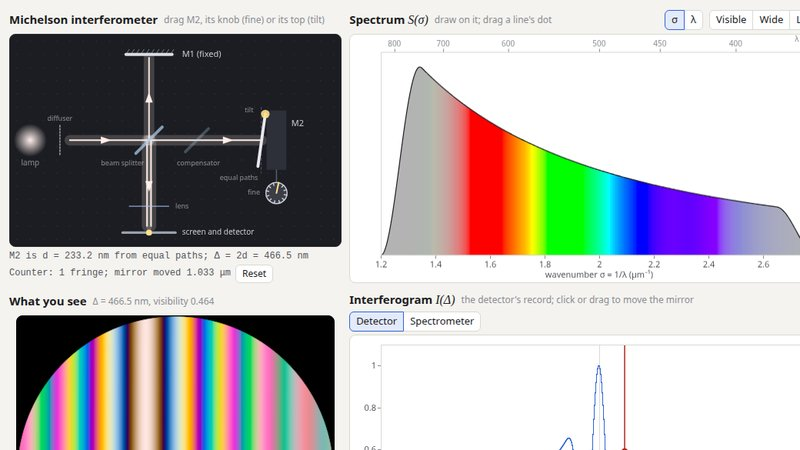
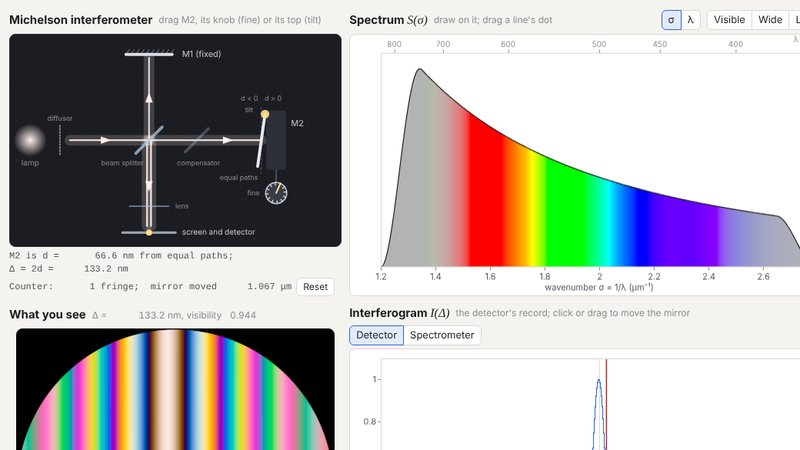
Interferometer: Betelgeuse on a 20-foot beam; visibility explained; thumbnail
The Betelgeuse set-up's baselines now run to 6.1 m, the length of Michelson
and Pease's beam that the help tells of, where the schematic said "beam,
10.2 m long" (the plot's range, 3.3 times the first null). The help's
introduction says what the visibility over the screen is, the contrast
(Imax − Imin)/(Imax + Imin) of the fringes around the present Δ, and what the
dashed line on the interferogram is; experiment 9 adds that a missing
compensating plate also makes the interferogram lopsided, which a two-sided
scan measures too. The thumbnail is remade from #setup=white.

Claude-Session: https://claude.ai/code/session_01Uf588EmEoW67UxQKckEGyR

diff --git a/interferometer/index.html b/interferometer/index.html
@@ -114,9 +114,12 @@
   $$I(\Delta)=\int S(\sigma)\,[1+\cos 2\pi\sigma\Delta]\,d\sigma .$$
   The cosine is even, so $I(-\Delta)=I(\Delta)$: the interferogram is the same on both sides of
   zero path.  Apart from the constant, it is the Fourier (cosine) transform of the spectrum: they
-  are a Fourier pair, and you can change either one here.  The screen shows what you would see
-  looking into the instrument, in true colour.  Scroll over the spectrum or the interferogram to
-  zoom; the buttons above them set their ranges.</p>
+  are a Fourier pair, and you can change either one here.  The dashed line on the interferogram is
+  the level with no interference, half the signal at zero path.  The screen shows what you would
+  see looking into the instrument, in true colour; over it, the visibility is the contrast
+  $(I_\text{max}-I_\text{min})/(I_\text{max}+I_\text{min})$ of the fringes around the present
+  $\Delta$: 1 for a laser, smaller where the wavelengths in the light have got out of step.  Scroll
+  over the spectrum or the interferogram to zoom; the buttons above them set their ranges.</p>
 
   <article class="exp" data-setup="count">
     <h3>1. Count the fringes: the laser's wavelength</h3>
@@ -240,7 +243,10 @@
     both sides, the shift only gives the transform a phase, $2\pi\sigma\varepsilon$ at each line,
     which the spectrometer measures and takes out (phase correction).  That is why spectrometers
     scan both sides of zero path, or at least a little of the second side, to measure the phase.
-    Set $\varepsilon$ to 0 and the two kinds of scan agree.</p>
+    (A real instrument can be lopsided in other ways too: without a compensating plate, the glass
+    of the beam splitter delays each colour differently, and the phase is no longer in proportion
+    to $\sigma$.  A two-sided scan measures that phase too.)  Set $\varepsilon$ to 0 and the two
+    kinds of scan agree.</p>
   </article>
 
   <article class="exp" data-setup="resolution">

diff --git a/interferometer/stellar-view.js b/interferometer/stellar-view.js
@@ -410,10 +410,11 @@ export function init(hooks) {
   showKind();
 }
 
-/** Set everything at once (for set-ups and the hash). */
-export function configure(s) {
+/** Set everything at once (for set-ups and the hash); span: the longest baseline, if not the star's own choice. */
+export function configure({ span, ...s }) {
   Object.assign(state, s);
   rebuild();
+  if (span > 0) { xmax = Math.max(span, state.B); dirty = true; }
   thetaSlider.value = state.theta; limbSlider.value = state.limb; rhoSlider.value = state.rho; paSlider.value = state.pa;
   ratioSlider.value = state.ratio; lamSlider.value = state.lam; bwSlider.value = state.bw; kindSeg.value = state.kind;
   seeingToggle.on = state.seeing;

diff --git a/interferometer/app.js b/interferometer/app.js
@@ -112,7 +112,8 @@ const setups = {
   aliasing: () => michelson({ source: 'hene', d: 0, plot: 'fts', L: 20, step: 0.4, view: [0, 3.2] }),
   drawi: () => michelson({ source: 'hene', d: 0, plot: 'fts', L: 10, step: 0.05, view: [0, 3.2] }),
   star: () => stellar({ theta: 20, lam: 550, B: 1, sweeping: true }),
-  betelgeuse: () => stellar({ theta: 47, lam: 575, B: 0.5, sweeping: true }),
+  // Baselines up to the length of Michelson and Pease's beam, 20 feet.
+  betelgeuse: () => stellar({ theta: 47, lam: 575, B: 0.5, sweeping: true, span: 6.1 }),
   binary: () => stellar({ kind: 'binary', theta: 6, rho: 50, pa: 0, ratio: 0.9, lam: 550, B: 0.2, sweeping: true }),
 };
 
